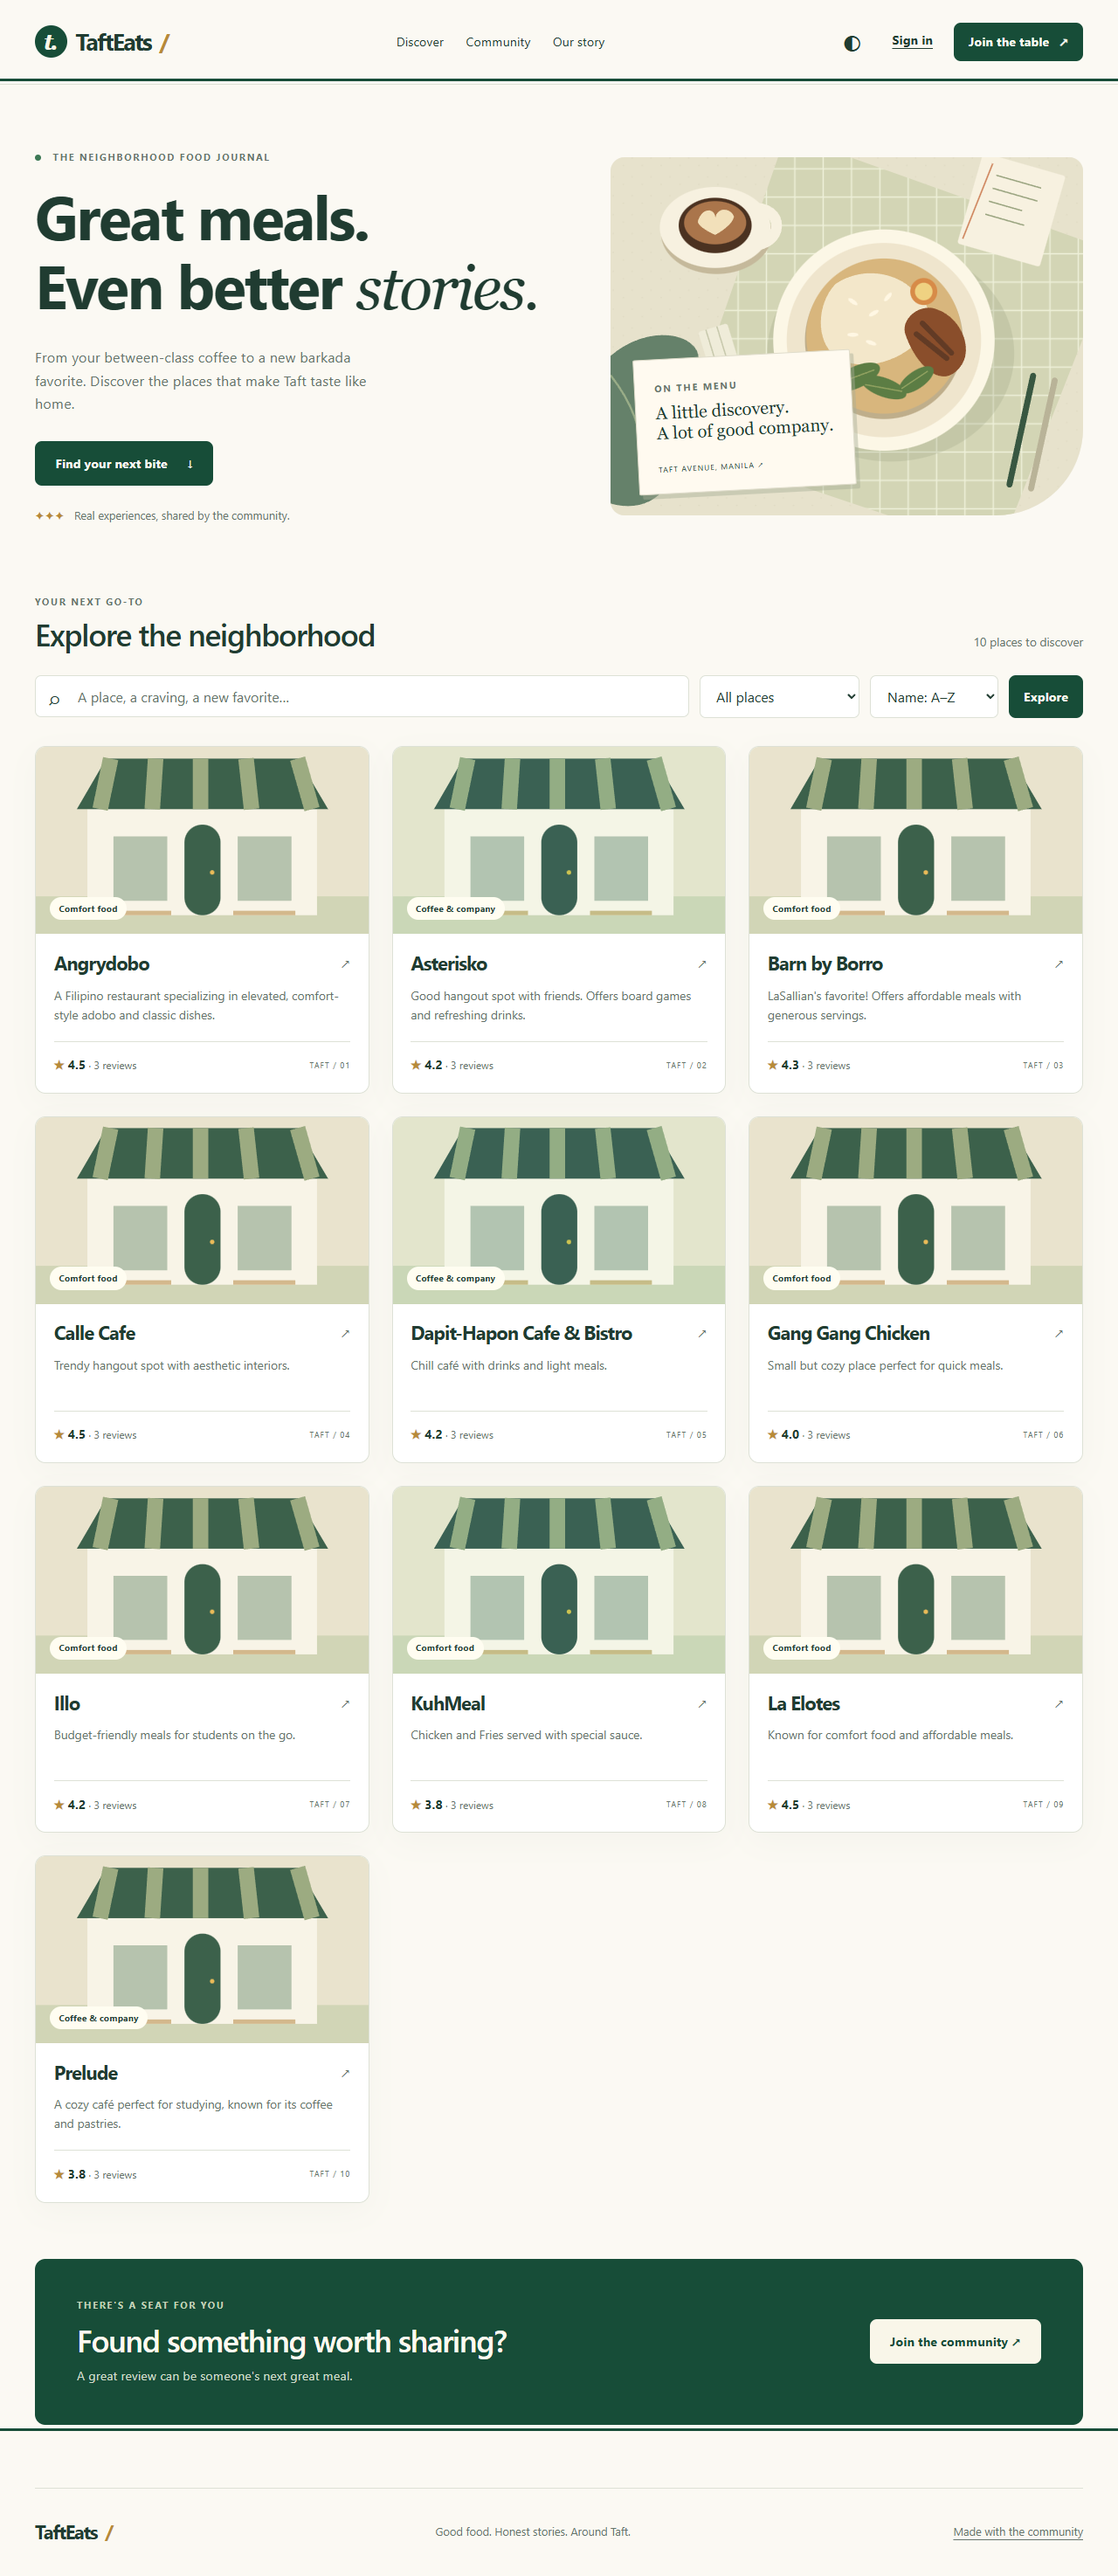
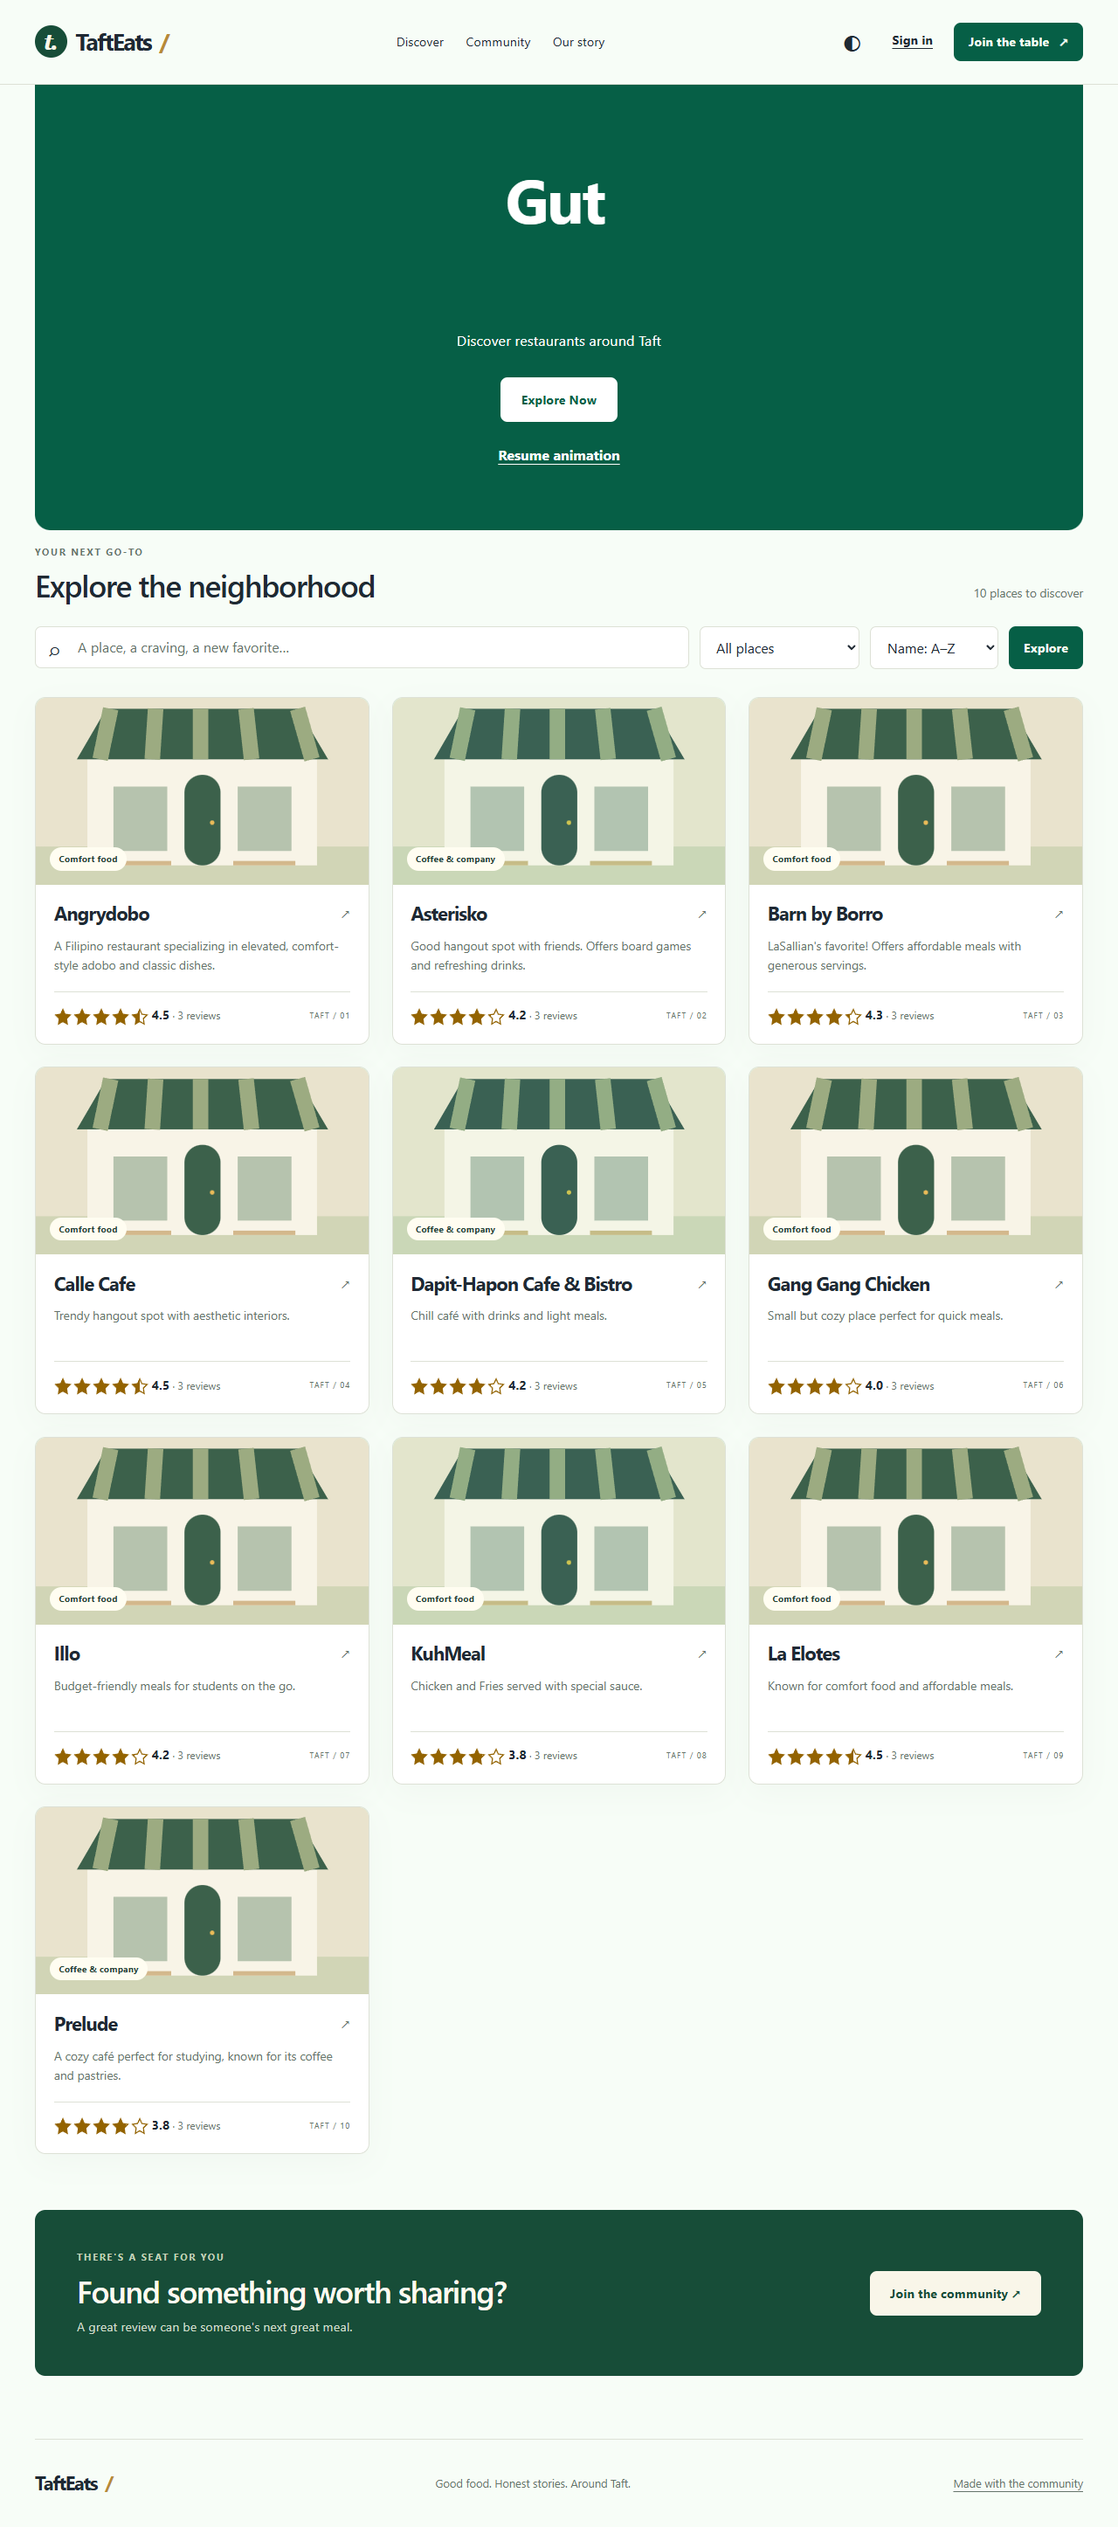
feat: restore multilingual hero, green palette, and five-star ratings

diff --git a/src/public/js/app.js b/src/public/js/app.js
@@ -1,5 +1,60 @@
 (() => {
   'use strict';
+  const heroText = document.getElementById('hero-text');
+  const heroToggle = document.querySelector('.hero-animation-toggle');
+  if (heroText && heroToggle) {
+    const phrases = [
+      ['Are you hungry?', 'en'],
+      ['Gutom ka na ba?', 'fil'],
+      ['¿Tienes hambre?', 'es'],
+      ['你饿了吗', 'zh'],
+      ['Vous avez faim?', 'fr'],
+      ['Hast du Hunger?', 'de'],
+      ['Hai fame?', 'it'],
+    ];
+    const reducedMotion = matchMedia('(prefers-reduced-motion: reduce)');
+    let phrase = 0;
+    let length = phrases[0][0].length;
+    let erasing = true;
+    let paused = false;
+    let timer;
+    function step() {
+      if (paused || reducedMotion.matches) return;
+      const [text, language] = phrases[phrase];
+      length += erasing ? -1 : 1;
+      heroText.textContent = text.slice(0, length);
+      heroText.lang = language;
+      let delay = erasing ? 35 : 65;
+      if (length === 0) {
+        phrase = (phrase + 1) % phrases.length;
+        erasing = false;
+        delay = 300;
+      } else if (length === text.length && !erasing) {
+        erasing = true;
+        delay = 2000;
+      }
+      timer = setTimeout(step, delay);
+    }
+    function syncAnimation() {
+      clearTimeout(timer);
+      heroToggle.hidden = reducedMotion.matches;
+      heroToggle.textContent = paused ? 'Resume animation' : 'Pause animation';
+      heroToggle.setAttribute('aria-pressed', String(paused));
+      if (reducedMotion.matches) {
+        phrase = 0;
+        length = phrases[0][0].length;
+        erasing = true;
+        heroText.textContent = phrases[0][0];
+        heroText.lang = 'en';
+      } else if (!paused) timer = setTimeout(step, 2000);
+    }
+    heroToggle.addEventListener('click', () => {
+      paused = !paused;
+      syncAnimation();
+    });
+    reducedMotion.addEventListener('change', syncAnimation);
+    syncAnimation();
+  }
   const csrf = document.querySelector('meta[name="csrf-token"]')?.content;
   let toastTimer;
   function notify(message) {

diff --git a/tests/browser/flows.spec.js b/tests/browser/flows.spec.js
@@ -37,13 +37,18 @@ test('discovery, filtering, keyboard navigation, themes, and responsive layouts'
     localStorage.setItem('theme', 'light');
   });
   await page.reload();
-  await expect(page.getByRole('heading', { level: 1 })).toHaveText(
-    'Great meals.Even better stories.',
-  );
+  await expect(page.getByRole('heading', { level: 1 })).toHaveAccessibleName('Are you hungry?');
+  await expect(page.locator('.restaurant-card .star-display')).toHaveCount(10);
   await page.keyboard.press('Tab');
   await expect(page.getByRole('link', { name: 'Skip to content' })).toBeFocused();
   await page.keyboard.press('Enter');
   await expect(page.locator('#main')).toBeFocused();
+  await expect(page.locator('#hero-text')).toHaveAttribute('lang', 'fil', { timeout: 7000 });
+  await page.getByRole('button', { name: 'Pause animation', exact: true }).click();
+  await expect(page.getByRole('button', { name: 'Resume animation', exact: true })).toHaveAttribute(
+    'aria-pressed',
+    'true',
+  );
   await audit(page);
   await page.screenshot({ path: path.resolve('docs/desktop-preview.png'), fullPage: true });
   await page.getByRole('button', { name: 'Switch to dark theme' }).click();
@@ -67,6 +72,9 @@ test('discovery, filtering, keyboard navigation, themes, and responsive layouts'
   await page.setViewportSize({ width: 390, height: 844 });
   await audit(page);
   await page.screenshot({ path: path.resolve('docs/mobile-preview.png'), fullPage: true });
+  await page.emulateMedia({ reducedMotion: 'reduce' });
+  await expect(page.locator('#hero-text')).toHaveText('Are you hungry?');
+  await expect(page.locator('.hero-animation-toggle')).toBeHidden();
   expect(errors).toEqual([]);
 });
 test('registration, sign-in, profile edit, review CRUD, voting, and owner replies', async ({

diff --git a/src/public/css/style.css b/src/public/css/style.css
@@ -1,11 +1,11 @@
 :root {
   color-scheme: light;
-  --bg: #fbf9f3;
+  --bg: #f7fdf7;
   --paper: #ffffff;
-  --ink: #203c31;
+  --ink: #1f2933;
   --muted: #66746b;
-  --green: #174d38;
-  --green-soft: #eaf0e8;
+  --green: #065f46;
+  --green-soft: #d1fae5;
   --line: #dde1d6;
   --accent: #e9ba58;
   --danger: #a52d2d;
@@ -1127,5 +1127,68 @@ fieldset {
   *::after {
     transition: none !important;
     animation: none !important;
+  }
+}
+
+.hero {
+  display: flex;
+  justify-content: center;
+  text-align: center;
+  min-height: 65vh;
+  background: #065f46;
+  color: #fff;
+  border-radius: 0 0 18px 18px;
+}
+.hero-copy {
+  width: 100%;
+}
+.hero h1 {
+  min-height: 2.3em;
+  font-family: 'Segoe UI', system-ui, sans-serif;
+}
+.hero-description {
+  margin-inline: auto;
+  color: #fff;
+}
+.hero .button {
+  background: #fff;
+  color: #065f46;
+}
+.hero-animation-toggle {
+  display: block;
+  margin: 1rem auto 0;
+  color: #fff;
+}
+.hero-animation-toggle[hidden] {
+  display: none;
+}
+.hero-cursor {
+  display: inline-block;
+  height: 0.9em;
+  border-right: 3px solid currentColor;
+  margin-left: 0.1em;
+  animation: hero-blink 0.7s step-end infinite;
+}
+@keyframes hero-blink {
+  50% {
+    opacity: 0;
+  }
+}
+.star-display {
+  display: inline-flex;
+  gap: 2px;
+  vertical-align: middle;
+  color: #936300;
+  white-space: nowrap;
+}
+[data-theme='dark'] .star-display {
+  color: #e9ba58;
+}
+.star-fill {
+  overflow: hidden;
+}
+@media (prefers-reduced-motion: reduce) {
+  .hero-cursor {
+    animation: none;
   }
 }
